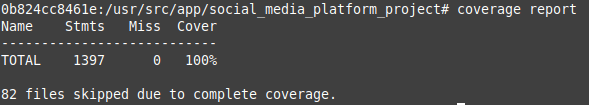
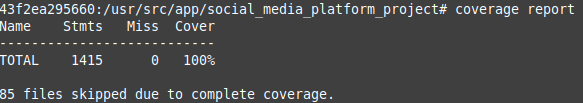
ADD: add admin user

diff --git a/social_media_platform_project/apps/users/tests/test_api/test_social_media_user/test_list.py b/social_media_platform_project/apps/users/tests/test_api/test_social_media_user/test_list.py
@@ -27,16 +27,19 @@ class APIListUserTest(APITestCase):
     def test_list_with_order(self):
         response = self.client.get(self.url)
         self.assertEqual(response.status_code, status.HTTP_200_OK)
-        self.assertEqual(len(response.data), 4)
+        self.assertEqual(len(response.data), 5)
         user = response.data[0]
+        self.assertEqual(user['username'], 'admin')
+        self.assertEqual(user['email'], 'admin@admin.com')
+        user = response.data[1]
         self.assertEqual(user['username'], 'username1')
         self.assertEqual(user['email'], 'email1@email.com')
         self.assertEqual(user['id'], self.user_1.id)
-        user = response.data[1]
+        user = response.data[2]
         self.assertEqual(user['username'], 'username2')
         self.assertEqual(user['email'], 'email2@email.com')
         self.assertEqual(user['id'], self.user_2.id)
-        user = response.data[2]
+        user = response.data[3]
         self.assertEqual(user['username'], 'username3')
         self.assertEqual(user['email'], 'email3@email.com')
         self.assertEqual(user['id'], self.user_3.id)

diff --git a/social_media_platform_project/apps/users/api/social_media_user.py b/social_media_platform_project/apps/users/api/social_media_user.py
@@ -3,7 +3,6 @@ from utils.exists_or_404 import exists_object_or_404
 from drf_spectacular.utils import extend_schema
 from rest_framework import (
     status,
-    permissions,
     viewsets
 )
 from rest_framework.decorators import action
@@ -20,7 +19,6 @@ from apps.users.services.social_media_user import SocialMediaUserService
 
 
 class SocialMediaUserViewset(viewsets.ModelViewSet):
-    permission_classes = [permissions.AllowAny]
     queryset = SocialMediaUser.objects.order_by('email')
     serializer_class = SocialMediaUserSerializer
     detailed_serializer_class = SocialMediaUserDetailedSerializer

diff --git a/social_media_platform_project/apps/users/tests/test_service/test_init_user/test_init_user.py b/social_media_platform_project/apps/users/tests/test_service/test_init_user/test_init_user.py
@@ -1,0 +1,20 @@
+from django.test import TestCase
+from apps.users.models import SocialMediaUser
+from apps.users.services.init_user import init_user
+
+
+class CommentTest(TestCase):
+
+    def test_create_user(self):
+        init_user()
+        self.assertTrue(
+            SocialMediaUser.objects.filter(username='admin').exists()
+        )
+
+    def test_not_duplicate_user(self):
+        init_user()
+        init_user()
+        self.assertEqual(
+            SocialMediaUser.objects.filter(username='admin').count(),
+            1
+        )

diff --git a/social_media_platform_project/apps/users/services/init_user.py b/social_media_platform_project/apps/users/services/init_user.py
@@ -1,0 +1,13 @@
+from apps.users.models import SocialMediaUser
+from apps.users.services.social_media_user import SocialMediaUserService
+
+
+def init_user(*args, **kwargs):
+    """function that creates an user
+    """
+    if not SocialMediaUser.objects.filter(username='admin').exists():
+        SocialMediaUserService.create(
+            username='admin',
+            password='admin',
+            email='admin@admin.com'
+        )

diff --git a/social_media_platform_project/apps/users/migrations/0002_auto_20240918_1604.py b/social_media_platform_project/apps/users/migrations/0002_auto_20240918_1604.py
@@ -1,0 +1,15 @@
+# Generated by Django 4.2.16 on 2024-09-18 16:04
+
+from django.db import migrations
+from apps.users.services.init_user import init_user
+
+
+class Migration(migrations.Migration):
+
+    dependencies = [
+        ('users', '0001_initial'),
+    ]
+
+    operations = [
+        migrations.RunPython(init_user)
+    ]

diff --git a/README.md b/README.md
@@ -35,11 +35,20 @@ The resolution was based on the requirements found in the file [Challenge](./CHA
 - Running coverage (in container)
     ```bash
     coverage run --source="." manage.py test
+    coverage report
     ```
     <img title="Coverage" alt="coverage" src="./coverage.png">
 
-- API Documentation: [Swagger](http://127.0.0.1:8081/swagger) *Es una básica implementacion de documentacion. No se pueden probar los endpoints desde swagger, solo ver la documentacion.*
-  
+- API Documentation: [Swagger](http://127.0.0.1:8081/swagger) *It is a basic implementation of documentation. You cannot test the endpoints from swagger, only view the documentation.*
+
+- By default a “Social Media User” is created with username “admin” and password “admin”.
+    ```bash
+    curl -X POST 127.0.0.1:8081/login/ -d username=admin -d password=admin
+    curl -X GET 127.0.0.1:8081/api/users/ -H "Authorization: Token <TOKEN>"
+    ```
+
+- System: [Site](http://127.0.0.1:8081/)
+
 
 ## System characteristics
 
